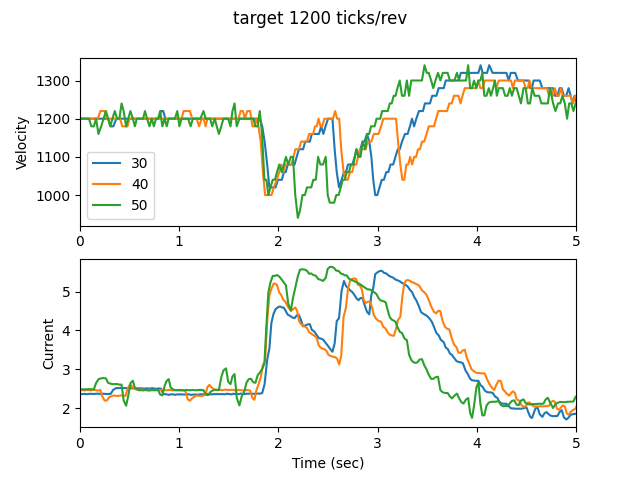
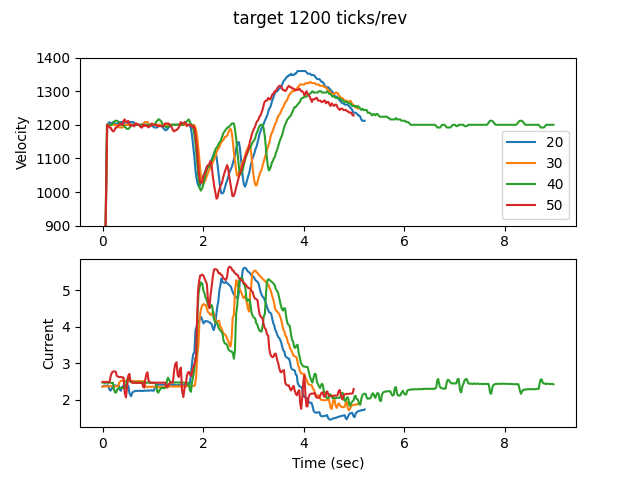
Synching work

diff --git a/PID Tuning.py b/PID Tuning.py
@@ -7,9 +7,11 @@ import glob
 # relevant info to pull files. First line is the timestamp for the file name,
 # second line is the indexes in the individual files to plot, third line is label
 # to help identify on graph
-lookingAt = ['151929','152542','154040']
-timeBox = [[187.1,210],[36,45],[66.9,72]]
-desc = ['30','40','50']
+lookingAt = ['150856','151929','152542','154040']
+#lookingAt =['154509']
+timeBox = [[89.5,95],[187.1,210],[36,45],[66.9,72]]
+#timeBox = [[0,10000]]
+desc = ['20','30','40','50']
 
 # get all csv files
 dataPath = 'bionic-shooter-pid-tuning\\'
@@ -38,14 +40,26 @@ for i, f in enumerate(lookingAt):
     dfRunning = df.loc[(df["Running"] == True) & (df["Timestamp"] > timeBox[i][0]) & (df["Timestamp"] < timeBox[i][1])]
     t = dfRunning["Timestamp"]
     t0 = float(t.iloc[0])
+    #t0=0
     tplt = []
     for j in range(t.shape[0]):
         tplt.append( float(t.iloc[j] - t0))
+
     velocity = dfRunning["Velocity"]
     current = dfRunning["Current"]
 
+
+    # create running average of 10 values to smooth data.
+    velocityAvg = []
+    avgArray = [0,0,0,0,0]#,0,0,0,0,0]
+    for v in velocity:
+        avgArray.pop()
+        avgArray.insert(0, v)
+        velocityAvg.append(float(np.average(avgArray)))
+
+
     # plot
-    ax1[0].plot(tplt, velocity,label=desc[i])
+    ax1[0].plot(tplt, velocityAvg,label=desc[i])
     ax1[1].plot(tplt, current)
 
 fig.suptitle('target 1200 ticks/rev')
@@ -53,6 +67,7 @@ ax1[0].set_ylabel('Velocity')
 ax1[0].legend()
 ax1[1].set_ylabel('Current')
 ax1[1].set_xlabel('Time (sec)')
-ax1[0].set_xlim(0,5)
-ax1[1].set_xlim(0,5)
+#ax1[0].set_xlim(0,5)
+#ax1[1].set_xlim(0,5)
+ax1[0].set_ylim(900,1400)
 fig.savefig('target_1200_all_time')
